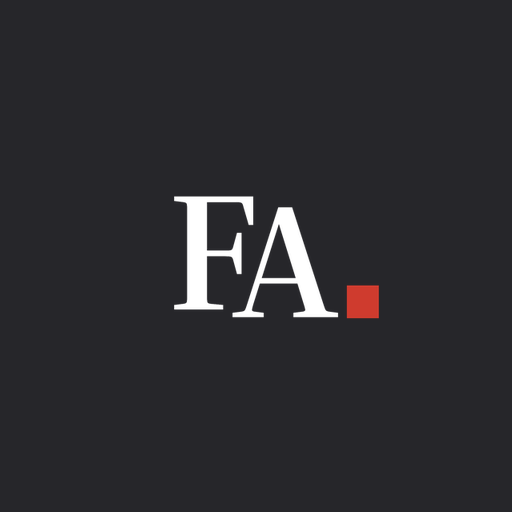
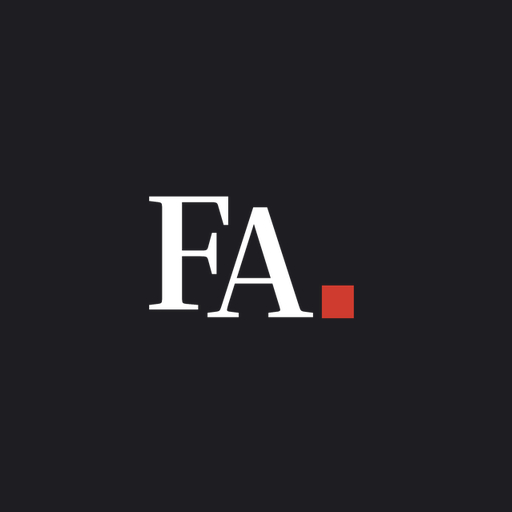
pwa: ícone levemente à esquerda + fundo um pouco mais escuro
Desloca o "FA." ~5% para a esquerda e escurece o fundo de #26262a para
#1e1e22. Cache bump ?v=4.

Changed region(s): [[0.2812, 0.375, 0.75, 0.625]]

diff --git a/src/app/manifest.ts b/src/app/manifest.ts
@@ -17,13 +17,13 @@ export default function manifest(): MetadataRoute.Manifest {
     theme_color: '#ffffff',
     lang: 'pt-BR',
     dir: 'ltr',
-    // ?v=3 = ícone dark (cinza escuro #26262a, "FA." clara centralizada pelas
+    // ?v=3 = ícone dark (cinza escuro #1e1e22, "FA." clara centralizada pelas
     // letras). O sufixo força navegador/instalação a rebaixar o cache anterior.
     icons: [
-      { src: '/icon-192.png?v=3', sizes: '192x192', type: 'image/png', purpose: 'any' },
-      { src: '/icon-512.png?v=3', sizes: '512x512', type: 'image/png', purpose: 'any' },
+      { src: '/icon-192.png?v=4', sizes: '192x192', type: 'image/png', purpose: 'any' },
+      { src: '/icon-512.png?v=4', sizes: '512x512', type: 'image/png', purpose: 'any' },
       {
-        src: '/icon-maskable-512.png?v=3',
+        src: '/icon-maskable-512.png?v=4',
         sizes: '512x512',
         type: 'image/png',
         purpose: 'maskable',

diff --git a/src/app/layout.tsx b/src/app/layout.tsx
@@ -23,7 +23,7 @@ export const metadata: Metadata = {
     ],
     // Ícone da tela inicial no iOS (dark: cinza escuro, "FA." clara centralizada).
     // ?v=3 força o iOS a buscar o novo ao re-adicionar à tela inicial.
-    apple: '/apple-touch-icon.png?v=3',
+    apple: '/apple-touch-icon.png?v=4',
   },
   // iOS: abre em tela cheia ("standalone") quando adicionado à tela inicial.
   appleWebApp: {
